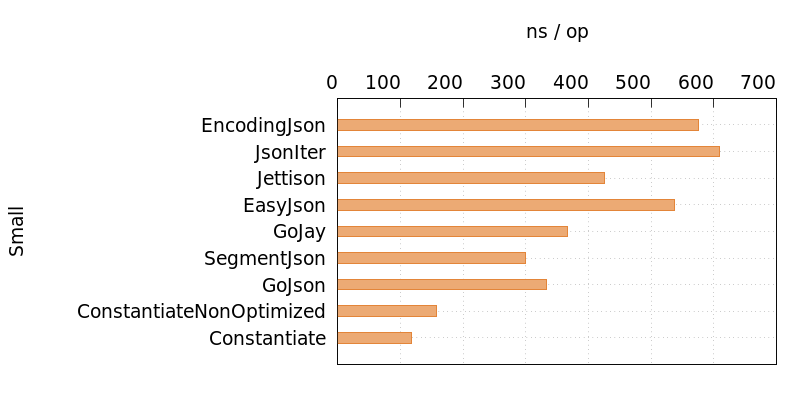
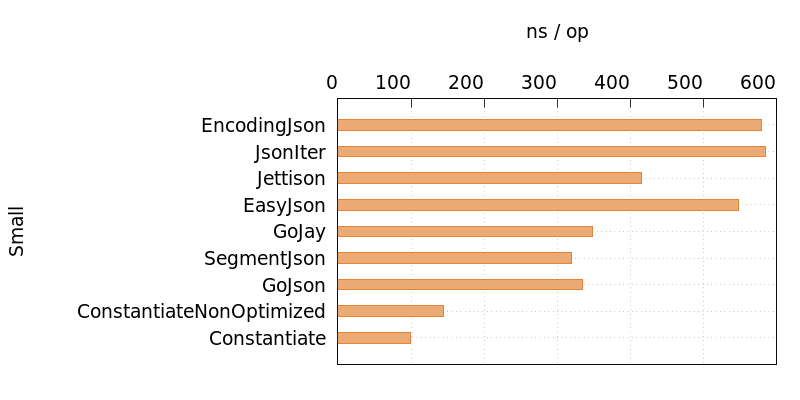
Clean: update benchmark results

diff --git a/README.md b/README.md
@@ -98,10 +98,10 @@ type M map[string]string
 |Constantiate|This one. Using Extended options.|
 
 ### SmallStruct
-![Small](https://user-images.githubusercontent.com/49056869/92930893-a421f680-f47d-11ea-9bf9-4b8657a9b803.png)
+![Small](https://user-images.githubusercontent.com/49056869/92948633-a04d9e80-f494-11ea-83c6-6360ea5c35f9.png)
 
 ### MediumStruct
-![Medium](https://user-images.githubusercontent.com/49056869/92930900-a5532380-f47d-11ea-9114-744fd514a704.png)
+![Medium](https://user-images.githubusercontent.com/49056869/92948635-a2176200-f494-11ea-9a22-a84ef6ea86c8.png)
 
 ### LargeStruct
-![Large](https://user-images.githubusercontent.com/49056869/92930896-a5532380-f47d-11ea-8aef-07db44175bc4.png)
+![Large](https://user-images.githubusercontent.com/49056869/92948634-a17ecb80-f494-11ea-9559-a384bd509c00.png)
